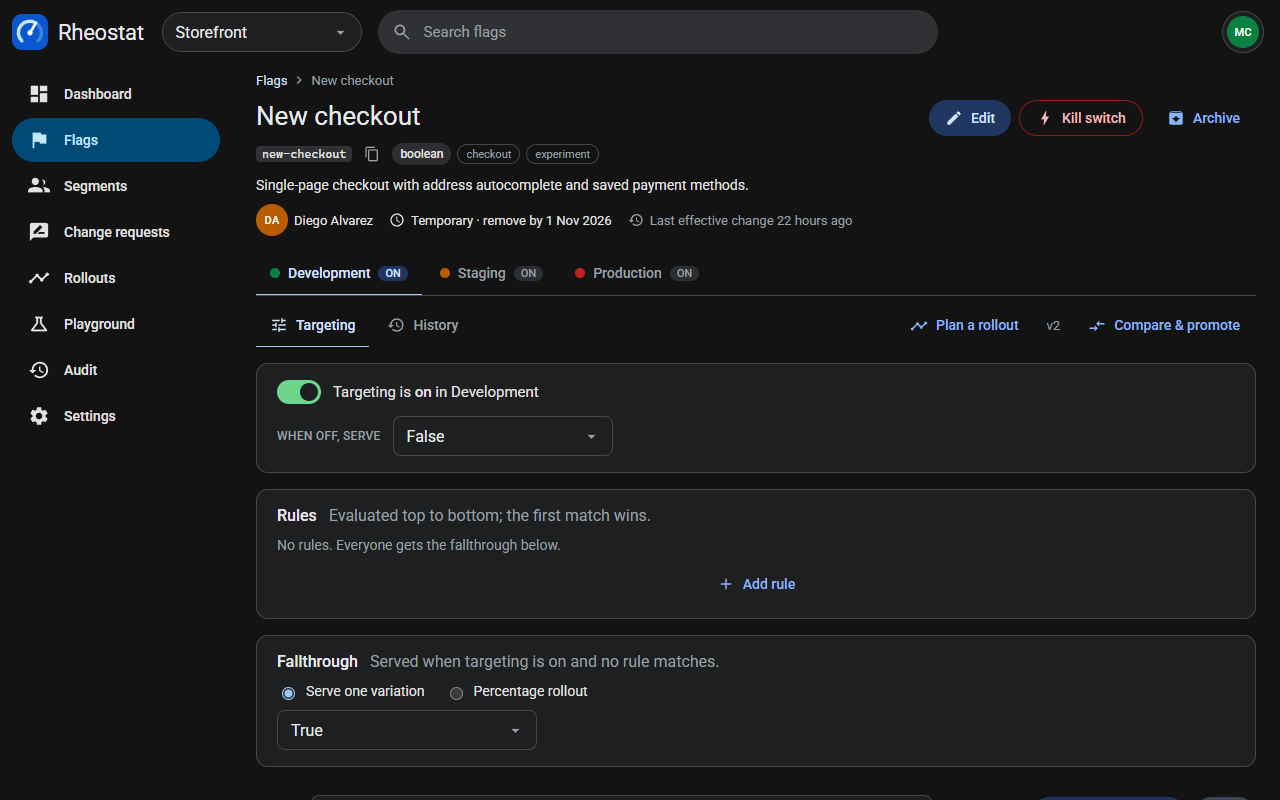
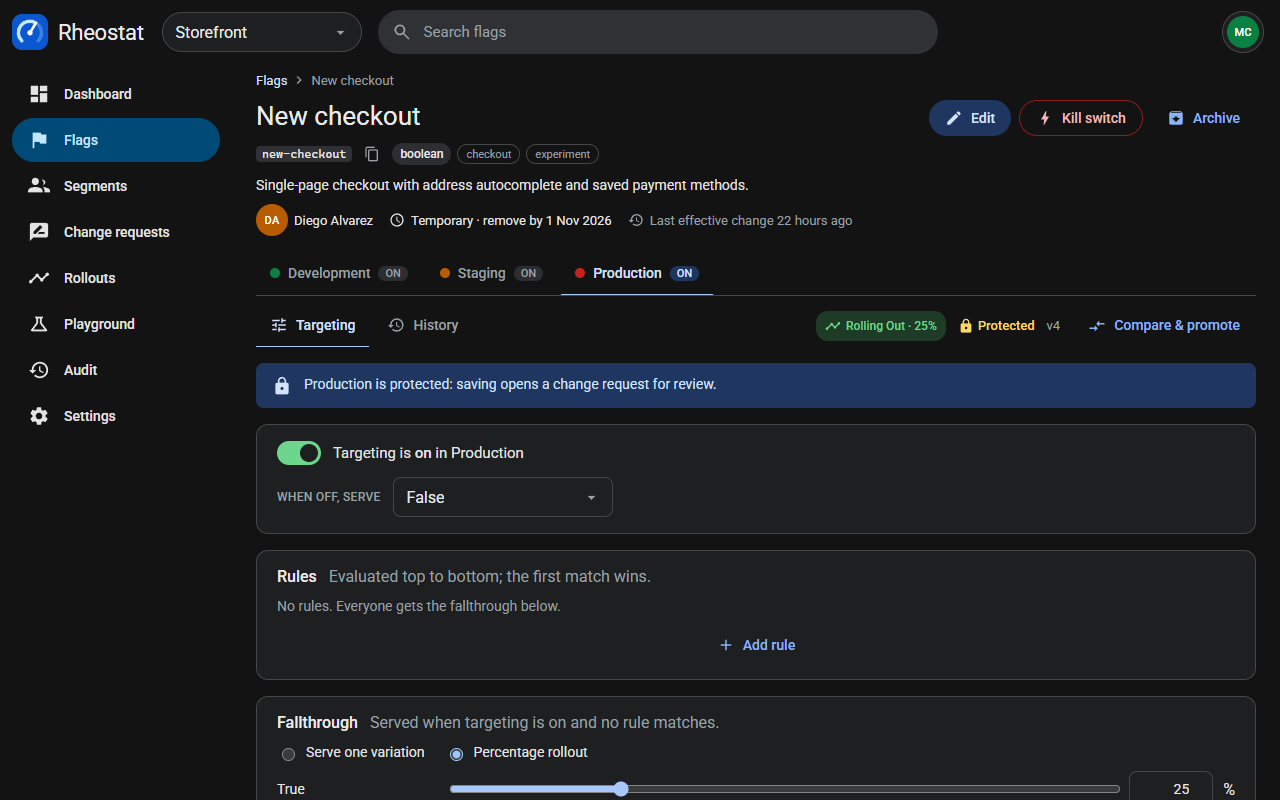
Complete Phase 7: Add component tests and update README

diff --git a/frontend/src/features/rollouts/RolloutTimeline.test.jsx b/frontend/src/features/rollouts/RolloutTimeline.test.jsx
@@ -1,0 +1,39 @@
+import { describe, expect, test } from "bun:test";
+import { renderToStaticMarkup } from "react-dom/server";
+import { RolloutTimeline } from "./RolloutTimeline.jsx";
+
+const plan = (overrides = {}) => ({
+	status: "running",
+	currentPercent: 10,
+	heldByKillSwitch: false,
+	steps: [
+		{ id: "s1", percent: 10, startAt: "2026-09-20T10:00:00Z", status: "applied" },
+		{ id: "s2", percent: 50, startAt: "2026-09-23T10:00:00Z", status: "pending" },
+		{ id: "s3", percent: 100, startAt: "2026-09-25T10:00:00Z", status: "pending" },
+	],
+	...overrides,
+});
+
+describe("RolloutTimeline", () => {
+	test("draws one circle per step, a now line, and accessible svg text", () => {
+		const html = renderToStaticMarkup(<RolloutTimeline plan={plan()} />);
+		expect(html.match(/<circle /g)).toHaveLength(3);
+		expect(html).toContain('class="rollout-now"');
+		expect(html).toContain("<title");
+		expect(html).toContain("<desc");
+		expect(html).toContain('role="img"');
+		expect(html).toContain("Current audience: 10%");
+	});
+	test("applied steps carry the applied status class and colour", () => {
+		const html = renderToStaticMarkup(<RolloutTimeline plan={plan()} />);
+		expect(html).toContain("rollout-status-applied");
+		expect(html).toContain('fill="var(--success)"');
+		expect(html.match(/rollout-status-pending/g)).toHaveLength(2);
+	});
+	test("kill switch and stall notices", () => {
+		expect(renderToStaticMarkup(<RolloutTimeline plan={plan({ heldByKillSwitch: true })} />)).toContain(
+			"held by the active kill switch",
+		);
+		expect(renderToStaticMarkup(<RolloutTimeline plan={plan({ status: "stalled" })} />)).toContain("stalled because targeting changed");
+	});
+});

diff --git a/frontend/src/features/flags/EnvironmentStatePill.test.jsx b/frontend/src/features/flags/EnvironmentStatePill.test.jsx
@@ -1,0 +1,34 @@
+import { describe, expect, test } from "bun:test";
+import { renderToStaticMarkup } from "react-dom/server";
+import { EnvironmentStatePill } from "./EnvironmentStatePill.jsx";
+
+const environment = { key: "production", name: "Production", color: "#c00" };
+const summary = (overrides) => ({ enabled: false, version: 3, ruleCount: 0, fallthrough: { kind: "fixed", label: "True" }, ...overrides });
+
+describe("EnvironmentStatePill", () => {
+	test("off state", () => {
+		const html = renderToStaticMarkup(<EnvironmentStatePill environment={environment} summary={summary()} />);
+		expect(html).toContain("Off");
+		expect(html).toContain("badge-neutral");
+		expect(html).toContain("Production: Off (v3)");
+	});
+	test("on state names the served variation and counts rules", () => {
+		const html = renderToStaticMarkup(
+			<EnvironmentStatePill environment={environment} summary={summary({ enabled: true, ruleCount: 2 })} />,
+		);
+		expect(html).toContain("On · True");
+		expect(html).toContain("2 rules");
+		expect(html).toContain("badge-success");
+	});
+	test("rollout fallthrough shows the split with the info tone", () => {
+		const html = renderToStaticMarkup(
+			<EnvironmentStatePill
+				environment={environment}
+				summary={summary({ enabled: true, ruleCount: 1, fallthrough: { kind: "rollout", label: "True 25% · False 75%" } })}
+			/>,
+		);
+		expect(html).toContain("True 25% · False 75%");
+		expect(html).toContain("1 rule<");
+		expect(html).toContain("badge-info");
+	});
+});

diff --git a/frontend/src/shared/components/DiffView.test.jsx b/frontend/src/shared/components/DiffView.test.jsx
@@ -1,0 +1,40 @@
+import { describe, expect, test } from "bun:test";
+import { renderToStaticMarkup } from "react-dom/server";
+import { DiffView } from "./DiffView.jsx";
+
+const variations = [
+	{ id: "v_true", name: "True" },
+	{ id: "v_false", name: "False" },
+];
+describe("DiffView", () => {
+	test("renders changed and added entries with variation names and rule descriptions", () => {
+		const html = renderToStaticMarkup(
+			<DiffView
+				diff={[
+					{ path: "enabled", kind: "changed", before: false, after: true },
+					{ path: "fallthrough", kind: "changed", before: { variationId: "v_true" }, after: { variationId: "v_false" } },
+					{
+						path: "rules.r_1",
+						kind: "added",
+						before: null,
+						after: {
+							id: "r_1",
+							description: "Beta testers",
+							clauses: [{ attribute: "key", operator: "segmentMatch", values: ["beta-testers"], negate: false }],
+							serve: { variationId: "v_true" },
+						},
+					},
+				]}
+				variations={variations}
+			/>,
+		);
+		expect(html).toContain("Targeting");
+		expect(html).toContain("Serve True");
+		expect(html).toContain("Serve False");
+		expect(html).toContain("Beta testers");
+		expect(html).toContain("segmentMatch");
+	});
+	test("empty diff renders the no-change message", () => {
+		expect(renderToStaticMarkup(<DiffView diff={[]} variations={variations} />)).toContain("No configuration changes.");
+	});
+});

diff --git a/frontend/src/shared/components/Pagination.test.jsx b/frontend/src/shared/components/Pagination.test.jsx
@@ -1,0 +1,21 @@
+import { describe, expect, test } from "bun:test";
+import { renderToStaticMarkup } from "react-dom/server";
+import { Pagination } from "./Pagination.jsx";
+
+describe("Pagination", () => {
+	test("first page: range, page count, previous disabled", () => {
+		const html = renderToStaticMarkup(<Pagination onPage={() => {}} page={1} pageSize={20} total={45} />);
+		expect(html).toContain("1–20 of 45");
+		expect(html).toContain("Page 1 of 3");
+		expect(html).toMatch(/aria-label="Previous page"[^>]*disabled=""/);
+		expect(html).not.toMatch(/aria-label="Next page"[^>]*disabled=""/);
+	});
+	test("last page: next disabled and the range is clipped to the total", () => {
+		const html = renderToStaticMarkup(<Pagination onPage={() => {}} page={3} pageSize={20} total={45} />);
+		expect(html).toContain("41–45 of 45");
+		expect(html).toMatch(/aria-label="Next page"[^>]*disabled=""/);
+	});
+	test("renders nothing when there are no rows", () => {
+		expect(renderToStaticMarkup(<Pagination onPage={() => {}} page={1} pageSize={20} total={0} />)).toBe("");
+	});
+});

diff --git a/frontend/src/features/change-requests/StatusBadge.test.jsx b/frontend/src/features/change-requests/StatusBadge.test.jsx
@@ -1,0 +1,23 @@
+import { describe, expect, test } from "bun:test";
+import { renderToStaticMarkup } from "react-dom/server";
+import { KindBadge, StatusBadge } from "./StatusBadge.jsx";
+
+describe("change request badges", () => {
+	test.each([
+		["pending", "Pending review", "badge-info"],
+		["approved", "Approved", "badge-success"],
+		["conflicted", "Conflicted", "badge-warning"],
+		["applied", "Applied", "badge-success"],
+		["rejected", "Rejected", "badge-danger"],
+		["withdrawn", "Withdrawn", "badge-neutral"],
+	])("%s → %s (%s)", (status, label, tone) => {
+		const html = renderToStaticMarkup(<StatusBadge status={status} />);
+		expect(html).toContain(label);
+		expect(html).toContain(tone);
+	});
+	test("kinds are labelled", () => {
+		expect(renderToStaticMarkup(<KindBadge kind="manual" />)).toContain("Targeting change");
+		expect(renderToStaticMarkup(<KindBadge kind="promotion" />)).toContain("Promotion");
+		expect(renderToStaticMarkup(<KindBadge kind="rollback" />)).toContain("Rollback");
+	});
+});

diff --git a/frontend/src/features/rollouts/RolloutTimeline.jsx b/frontend/src/features/rollouts/RolloutTimeline.jsx
@@ -19,7 +19,8 @@ export function RolloutTimeline({ plan }) {
 				<h3 id="rollout-timeline-title">Schedule</h3>
 				<span className="muted">Current audience: {plan.currentPercent}%</span>
 			</div>
-			<svg aria-labelledby="rollout-timeline-title rollout-timeline-description" role="img" viewBox="0 0 720 106">
+			<svg aria-labelledby="rollout-timeline-svg-title rollout-timeline-description" role="img" viewBox="0 0 720 106">
+				<title id="rollout-timeline-svg-title">Rollout schedule</title>
 				<desc id="rollout-timeline-description">A timeline of rollout steps and their current status.</desc>
 				<line className="rollout-axis" x1="56" x2="664" y1="54" y2="54" />
 				<line className="rollout-now" x1={`${nowPosition}%`} x2={`${nowPosition}%`} y1="18" y2="90" />

diff --git a/backend/src/features/webhooks/webhook.controller.js b/backend/src/features/webhooks/webhook.controller.js
@@ -1,5 +1,5 @@
 import { z } from "zod";
-import { keySchema, objectIdSchema } from "../../shared/utils/keys.js";
+import { objectIdSchema } from "../../shared/utils/keys.js";
 import { personService } from "../people/person.service.js";
 import { ENVIRONMENT_KEYS } from "../projects/project.model.js";
 import { projectService } from "../projects/project.service.js";

diff --git a/README.md b/README.md
@@ -1,0 +1,170 @@
+# Rheostat
+
+Rheostat is a feature flag and progressive delivery platform for product teams. Flags carry a separate targeting configuration per environment; protected environments only change through reviewed change requests; rollouts move a flag to a new variation step by step on a schedule and recover safely after a crash; every change is audited, and webhooks notify external tools of what happened. A playground evaluates any flag for any context, and a built-in webhook receiver shows signed deliveries without any external service.
+
+![Flag detail: the production environment of a flag under a 25 % rollout](assets/rheostat-flag-detail.png)
+
+## Built with
+
+| Layer | Choice |
+|---|---|
+| Runtime and package manager | Bun 1.4 (workspaces; `bun install`, `bun test`) |
+| Backend | Express 5, Mongoose 8, Zod 4 (request validation), JSON Web Tokens + bcryptjs (sign-in), dotenv |
+| Database | MongoDB 8 on `127.0.0.1:27017`, database `rheostat_db` |
+| Frontend | React 19, Vite 8 (rolldown), `@fontsource/roboto`; hand-written CSS with design tokens, no component library |
+| Tests | `bun test` — pure business rules, fake-backed workers, real-HTTP route tests, DOM-free render tests, an opt-in MongoDB integration suite |
+| Formatting | Prettier 3.6 (`.prettierrc`: tabs, width 140) |
+
+Dependencies are pinned exactly; nothing was added beyond the reference set.
+
+## Project structure
+
+```
+rheostat/
+├── package.json                 # workspaces: frontend, backend; start / seed / test scripts
+├── setup.sh                     # creates .env files from the examples, checks MongoDB, seeds
+├── hackerrank.yml               # run: bun start · install: bun install && bash setup.sh --seed
+├── .vscode/launch.json          # "Debug Rheostat Application"
+├── assets/                      # README media
+├── backend/
+│   ├── .env.example             # PORT, MONGODB_URI, JWT_*, LOG_LEVEL, API_ORIGIN
+│   ├── public/                  # favicon and the API landing page
+│   └── src/
+│       ├── index.js             # boots the server and the two tickers (rollouts 30 s, webhooks 5 s)
+│       ├── app.js               # middleware order, route mounting, /api/v1/health
+│       ├── features/            # one folder per domain: route → controller (Zod) → service → repository → model
+│       │   ├── auth/            # workspace sign-in, profile switch (JWT)
+│       │   ├── people/          # profiles and roles
+│       │   ├── projects/        # projects, environment policy, webhook sink token
+│       │   ├── flags/           # flags, per-environment configs, versions, lifecycle
+│       │   ├── segments/        # reusable audience segments
+│       │   ├── governance/      # direct edits, compare and promote, rollback, impact preview
+│       │   ├── change-requests/ # proposals, reviews, apply with conflict detection
+│       │   ├── rollouts/        # scheduled percentage rollouts and the crash-safe reconciler
+│       │   ├── evaluation/      # the evaluator, playground, simulated audience, activity logs
+│       │   ├── webhooks/        # subscriptions, signed deliveries, retry worker, built-in receiver
+│       │   ├── saved-views/     # per-person flag list filters
+│       │   ├── dashboard/       # release health read model
+│       │   └── audit/           # the audit log every mutation writes to
+│       ├── shared/              # auth/permissions, config, errors, logging, middleware, validation, utils
+│       └── scripts/seed.js      # deterministic seed (+ seed/ fixtures per domain)
+├── frontend/
+│   ├── .env.example             # VITE_API_URL=/api/v1 (Vite proxies to :8000)
+│   ├── vite.config.js           # dev server on :3000, proxy, chunking
+│   └── src/
+│       ├── main.jsx, App.jsx    # bootstrap, session and profile gates, error boundary
+│       ├── features/            # one folder per screen family (api client + components + page)
+│       └── shared/              # api client and cache, components, context, hooks, router, utils
+├── docs/superpowers/            # design specs and implementation plans (the decision record)
+├── transcripts/                 # the agent session log delivered with the repository
+└── skills/validate/             # the validation skill (kept out of the archive by .gitattributes)
+```
+
+## Prerequisites
+
+- Bun ≥ 1.3 (`bun --version`)
+- MongoDB ≥ 8 listening on `127.0.0.1:27017` (`mongod` on the PATH, or an already-running server)
+- A modern browser; no other services, keys, or accounts
+
+## MongoDB behavior
+
+- Connection: `MONGODB_URI` from `backend/.env` (created from `backend/.env.example` on first run), default `mongodb://localhost:27017/rheostat_db`.
+- `setup.sh` starts `mongod` when nothing answers on the port (using `/etc/mongod.conf` when present, otherwise a local `.mongodb/` data directory) and then seeds.
+- `bun start` runs `setup.sh --start` first, so **every start resets the database to the seeded baseline**. Changes made while exploring are discarded on the next start; `bun run seed` resets at any time.
+- Seeding is deterministic: the same projects, people, flags, versions, change requests, rollouts, webhooks, audit entries, and simulated audience every time. The seeder asserts its own counts and fails loudly on drift.
+
+Baseline counts printed by the seed:
+
+| Collection | Count |
+|---|---|
+| Profiles / sign-in accounts | 5 / 5 |
+| Projects | 2 (Storefront, Mobile app) |
+| Segments | 8 |
+| Flags | 16 |
+| Flag versions | 104 |
+| Change requests | 6 |
+| Rollout plans | 3 |
+| Webhooks / deliveries / receipts | 3 / 14 / 11 |
+| Saved views | 3 |
+| Audience members | 1000 |
+| Evaluation logs | 2772 |
+| Audit entries | 114 |
+
+## Run it
+
+```bash
+bun install
+bun start
+```
+
+`bun start` creates the `.env` files, checks MongoDB, seeds, then runs the backend (`bun --watch`, port 8000) and the frontend (Vite, port 3000) together. Open <http://localhost:3000>. The API health check is <http://localhost:8000/api/v1/health> (503 while MongoDB is unreachable).
+
+On HackerRank the same commands are declared in `hackerrank.yml`: install `bun install && bash setup.sh --seed`, run `bun start`.
+
+## Commands
+
+| Command | Purpose |
+|---|---|
+| `bun start` | Seed, then run backend and frontend with reload |
+| `bun run seed` | Reset the database to the seeded baseline |
+| `bun run dev:backend` | Backend only (`bun --watch src/index.js`, port 8000) |
+| `bun run dev:frontend` | Frontend only (Vite, port 3000, proxies `/api` to 8000) |
+| `bun test` | All tests, backend and frontend, from the repository root |
+| `MONGODB_TEST_URI=mongodb://localhost:27017/rheostat_test bun test` | Also runs the MongoDB integration suite (concurrency and unique-index behaviour) |
+| `bunx prettier@3.6.2 --check "backend/src/**/*.js" "frontend/src/**/*.{js,jsx}"` | Formatting check |
+| `cd frontend && bun run build` | Production build of the frontend |
+
+## Seeded access
+
+Sign in with any account, then choose a profile. Every seeded account may open every profile, so one sign-in is enough to see the product from each role; the profile menu switches without signing out.
+
+| Email | Password | Role |
+|---|---|---|
+| `priya.raman@rheostat.team` | `password123` | admin |
+| `marcus.chen@rheostat.team` | `password123` | releaseManager |
+| `elena.novak@rheostat.team` | `password123` | reviewer |
+| `diego.alvarez@rheostat.team` | `password123` | developer |
+| `sam.okafor@rheostat.team` | `password123` | viewer |
+
+What each role can do:
+
+| Role | Capabilities |
+|---|---|
+| viewer | Read everything: dashboard, flags, segments, change requests, rollouts, audit, webhooks; run the playground; keep personal saved views |
+| developer | Viewer, plus: create and edit flags and segments; change targeting directly in unprotected environments; propose changes to protected ones; comment on and apply their own approved change requests; plan and manage rollouts in unprotected environments |
+| reviewer | Developer, plus: approve or reject change requests |
+| releaseManager | Reviewer, plus: apply anyone's approved change request; manage rollouts in protected environments; activate and clear kill switches; archive and restore flags; withdraw any change request; create, edit, test, and delete webhooks |
+| admin | Everything, plus: create projects, edit environment protection and required approvals, assign roles (the last admin cannot be demoted) |
+
+## How Rheostat works
+
+1. **Flags** live in a project and hold one targeting configuration per environment (development, staging, production): on/off, rules over context attributes and segments, and a fallthrough that serves one variation or a percentage rollout. Every save creates a numbered version.
+2. **Protected environments** (production by default) refuse direct saves. Saving opens a **change request** with the proposed configuration and the base version; reviewers approve or reject; applying it re-checks the base version and marks the request conflicted if the flag moved meanwhile. Compare-and-promote and rollback follow the same rule.
+3. **Rollouts** schedule percentage steps for a flag in an environment. A background reconciler applies due steps with a claim and a version-guarded write, detects configuration changes made outside the rollout (stalled), and recovers unambiguously after a crash mid-step. Kill switches hold steps and override evaluation.
+4. **Evaluation** is deterministic (hashing by the bucketing attribute); the playground evaluates any context, previews the impact of a proposed configuration on the simulated audience, and the dashboard charts activity.
+5. **Webhooks** deliver signed JSON events (flag configuration, kill switch, archive, change request applied, rollout progress) with retries, dead-lettering, a breaker, and redelivery; the built-in receiver verifies signatures and deduplicates.
+6. Every mutation writes an **audit** entry; automated writes (rollout steps, dead-lettered deliveries) are attributed to the system actor.
+
+## Engineering notes
+
+| Concept | Where | Trade-off taken |
+|---|---|---|
+| Optimistic concurrency | `backend/src/features/flags/flag.repository.js` `mutateEnvironment` (version-guarded `findOneAndUpdate`) | One guarded write is the lock and the drift detector; no distributed lock, no transactions (a version is one subdocument). |
+| Idempotency | `backend/src/features/audit/audit.service.js` `recordOnce`; unique `(rolloutPlanId, stepId)` on flag versions; unique `(subscriptionId, eventId)` on deliveries; `X-Rheostat-Delivery` for receivers | Deterministic ids for automated writers, random for interactive ones. |
+| Background jobs and crash recovery | `backend/src/features/rollouts/reconcile.js` (30 s tick, timestamped claims, four recovery cases); `backend/src/features/webhooks/dispatch.js` (5 s tick, stale-claim release) | Claims with timestamps instead of leases; stale claims resolve deterministically. |
+| Queue, retries, backoff, dead-letter, breaker | `backend/src/features/webhooks/` (`WebhookDelivery` as the queue, `BACKOFF_MS`, `MAX_ATTEMPTS`, `BREAKER_THRESHOLD`, `held` deliveries, disabled subscriptions excluded at claim time) | Fixed schedule, one worker; **delivery is at-least-once after a successful enqueue; enqueue is best-effort and logged** (`webhook.emit.failed`); the post-enqueue dispatch kick is separate and best-effort (`webhook.dispatch.kick.failed`) — an outbox is out of scope. |
+| Idempotent consumer | the built-in sink (`backend/src/features/webhooks/sink.controller.js`): unique `(projectId, dedupeKey)` receipts with an atomic upsert and `receivedCount` | Duplicate detection is atomic at the database, not check-then-insert. |
+| Signed payloads and secrets | `backend/src/features/webhooks/signature.js` (HMAC-SHA256 with timestamp, constant-time compare); secrets shown once | Rotation invalidates receivers until they update. |
+| Rate limiting | `backend/src/shared/middleware/rate-limit.js` on login, evaluate, sink | Fixed window, in-memory; boundary bursts accepted. |
+| Structured logging and correlation | `backend/src/shared/logging/logger.js`, `backend/src/shared/middleware/request-context.js`, `requestId` in every error envelope, frontend-generated ids | JSON lines to stdout; the seed keeps human-readable output on purpose. |
+| RBAC/ABAC | `backend/src/shared/auth/permissions.js` (role × environment protection × authorship) | Context-aware `can()`. Authorization is account-wide by design (no per-project membership); the webhook tests prove resource-relationship integrity (a delivery is only reachable through its own subscription and project; sink tokens bind to their project's subscriptions), not a per-project access boundary. |
+| Automated vs user actions | `backend/src/shared/auth/system-actor.js`, `AuditEntry.actorKind` | Worker-written audit entries name the system actor; rollout steps keep the creator's authority but are marked automated. |
+| Audit logging | every mutating service awaits `auditService.record`; webhooks emit only after the owning audit succeeds | An unaudited change is a failed request. |
+| Indexing and cursor pagination | partial unique index for one active rollout per flag × environment; sparse unique idempotency keys; `(createdAt, _id)` cursors on deliveries (`backend/src/features/webhooks/cursor.js`); `before` cursor on audit | Offset pagination for sorted, filtered user lists; cursors for append-only streams. |
+| Health checks | `GET /api/v1/health` (`backend/src/app.js`) | 503 when MongoDB is down. |
+| Frontend: cache and dedup | `frontend/src/shared/api/cache.js` (generations, identity-safe in-flight cleanup), `frontend/src/shared/hooks/useAsync.js` | Explicit keys, stale-while-revalidate, committed server data only. |
+| Frontend: optimistic updates | comments, rollout pause/resume, kill-switch clear | Only where failure is rare and the rollback is a local swap. |
+| Frontend: boundaries, splitting, skeletons, accessibility | `frontend/src/shared/components/ErrorBoundary.jsx`, `frontend/src/features/shell/Workspace.jsx` (`lazy` + `Suspense`), native `<dialog>` with focus restore | Route-level boundaries. |
+| Tests | pure business rules, fake-backed workers, real-HTTP tests over fakes, DOM-free render tests, opt-in MongoDB integration suite (`MONGODB_TEST_URI`) | No DOM shim (dependency freeze); interaction verified in browser gates. |
+
+**What a multi-process deployment would change.** The rate-limit store and client cache would move to Redis; the two tickers would take a lease; deliveries would move to a broker with the same claim semantics; enqueue would become a transactional outbox; logs would ship to a collector keyed by `requestId`.
